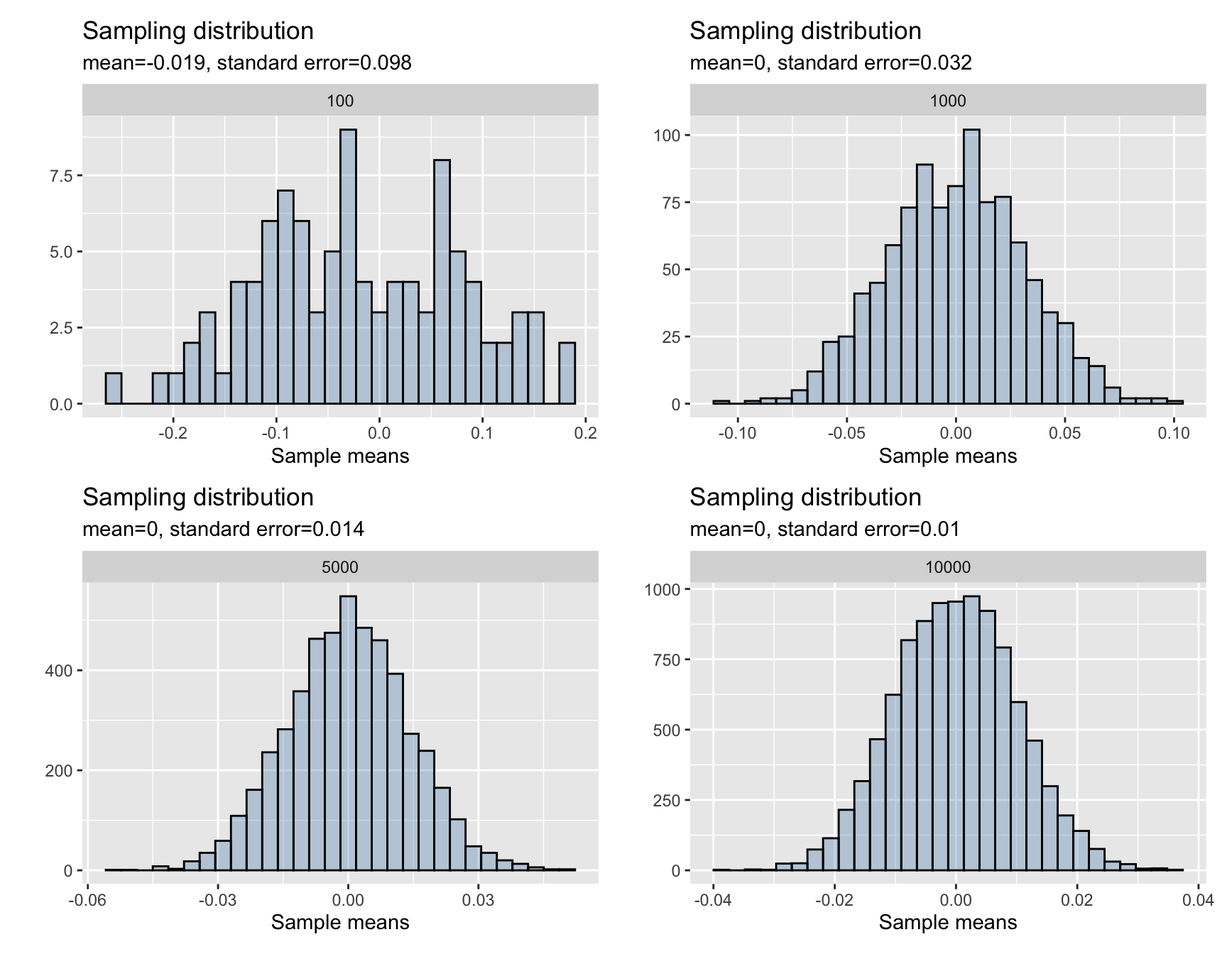
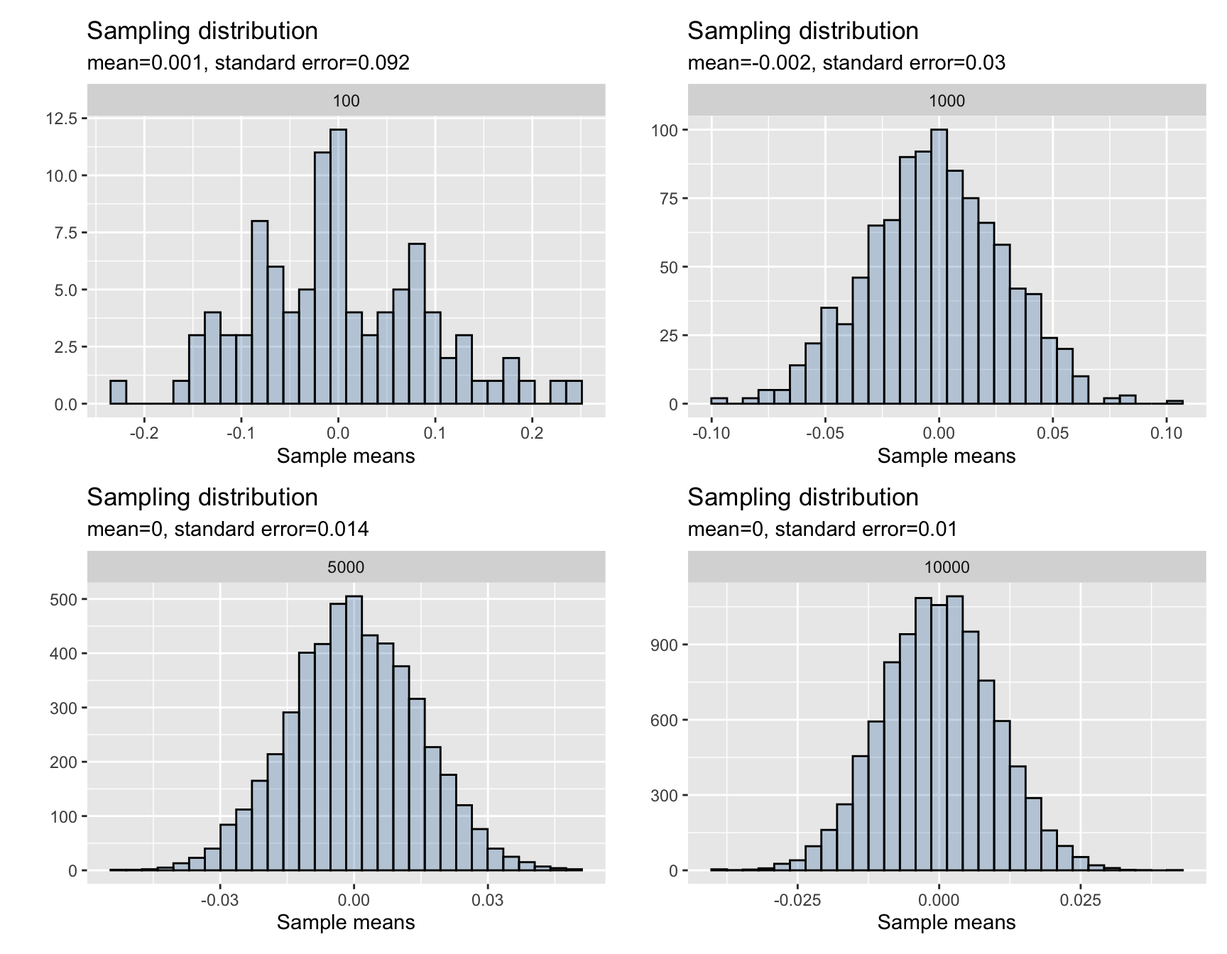
update

diff --git a/_site/ucla/stats10/CLT.html b/_site/ucla/stats10/CLT.html
@@ -235,7 +235,7 @@ Show Code
 <div class="cell">
 <div class="sourceCode cell-code" id="cb4"><pre class="sourceCode r code-with-copy"><code class="sourceCode r"><span id="cb4-1"><a href="#cb4-1" aria-hidden="true" tabindex="-1"></a><span class="fu">mean</span>(sample_means)</span></code><button title="Copy to Clipboard" class="code-copy-button"><i class="bi"></i></button></pre></div>
 <div class="cell-output cell-output-stdout">
-<pre><code>#&gt; [1] -0.0009667696</code></pre>
+<pre><code>#&gt; [1] 0.0003590094</code></pre>
 </div>
 </div>
 <p>which is very close to the population mean of <span class="math inline">\(\mu =0\)</span></p>
@@ -243,7 +243,7 @@ Show Code
 <div class="cell">
 <div class="sourceCode cell-code" id="cb6"><pre class="sourceCode r code-with-copy"><code class="sourceCode r"><span id="cb6-1"><a href="#cb6-1" aria-hidden="true" tabindex="-1"></a><span class="fu">sd</span>(sample_means)</span></code><button title="Copy to Clipboard" class="code-copy-button"><i class="bi"></i></button></pre></div>
 <div class="cell-output cell-output-stdout">
-<pre><code>#&gt; [1] 0.1003581</code></pre>
+<pre><code>#&gt; [1] 0.09949294</code></pre>
 </div>
 </div>
 <p>which is approximately <span class="math inline">\(\frac{\sigma}{\sqrt{n}} = \frac{1}{10}\)</span></p>
@@ -363,10 +363,6 @@ Show Code
 <li>Compute the sample mean of the penguins body mass and store the result in a variable, say <code>body_mass_xbar</code></li>
 <li>Plot each of the <code>body_mass_xbar</code> using a histogram</li>
 </ol>
-<details>
-<summary>
-Show Code
-</summary>
 <div class="cell">
 <div class="sourceCode cell-code" id="cb14"><pre class="sourceCode r code-with-copy"><code class="sourceCode r"><span id="cb14-1"><a href="#cb14-1" aria-hidden="true" tabindex="-1"></a>n_samples <span class="ot">&lt;-</span> <span class="dv">10000</span></span>
 <span id="cb14-2"><a href="#cb14-2" aria-hidden="true" tabindex="-1"></a>sample_size <span class="ot">&lt;-</span> <span class="dv">50</span></span>
@@ -376,41 +372,46 @@ Show Code
 <span id="cb14-6"><a href="#cb14-6" aria-hidden="true" tabindex="-1"></a><span class="cf">for</span>(i <span class="cf">in</span> <span class="dv">1</span><span class="sc">:</span>n_samples){</span>
 <span id="cb14-7"><a href="#cb14-7" aria-hidden="true" tabindex="-1"></a>  sample_i <span class="ot">=</span>  <span class="fu">sample</span>(body_mass_g, <span class="at">size =</span> sample_size) <span class="co"># generate a new sample</span></span>
 <span id="cb14-8"><a href="#cb14-8" aria-hidden="true" tabindex="-1"></a>  body_mass_xbar[i] <span class="ot">=</span> <span class="fu">mean</span>(sample_i) <span class="co"># obtain mean for each sample</span></span>
-<span id="cb14-9"><a href="#cb14-9" aria-hidden="true" tabindex="-1"></a>}</span>
-<span id="cb14-10"><a href="#cb14-10" aria-hidden="true" tabindex="-1"></a></span>
-<span id="cb14-11"><a href="#cb14-11" aria-hidden="true" tabindex="-1"></a>sampling_dist <span class="ot">&lt;-</span> <span class="fu">ggplot</span>(<span class="fu">data.frame</span>(body_mass_xbar),</span>
-<span id="cb14-12"><a href="#cb14-12" aria-hidden="true" tabindex="-1"></a>                        <span class="fu">aes</span>(body_mass_xbar))<span class="sc">+</span></span>
-<span id="cb14-13"><a href="#cb14-13" aria-hidden="true" tabindex="-1"></a>  <span class="fu">geom_histogram</span>(<span class="at">fill =</span> <span class="st">'steelblue'</span>,<span class="at">alpha =</span> <span class="fl">0.3</span>,</span>
-<span id="cb14-14"><a href="#cb14-14" aria-hidden="true" tabindex="-1"></a>                 <span class="at">color =</span> <span class="st">'black'</span>,<span class="at">bins=</span><span class="dv">30</span>)<span class="sc">+</span></span>
-<span id="cb14-15"><a href="#cb14-15" aria-hidden="true" tabindex="-1"></a>  <span class="fu">labs</span>(<span class="at">title =</span> <span class="st">'Sampling distribution of Sample Mean'</span>,</span>
-<span id="cb14-16"><a href="#cb14-16" aria-hidden="true" tabindex="-1"></a>       <span class="at">subtitle =</span> <span class="st">'Penguins body mass (grams)'</span>,</span>
-<span id="cb14-17"><a href="#cb14-17" aria-hidden="true" tabindex="-1"></a>       <span class="at">x =</span> <span class="st">'Sample means'</span>,<span class="at">y =</span> <span class="st">''</span>)</span></code><button title="Copy to Clipboard" class="code-copy-button"><i class="bi"></i></button></pre></div>
+<span id="cb14-9"><a href="#cb14-9" aria-hidden="true" tabindex="-1"></a>}</span></code><button title="Copy to Clipboard" class="code-copy-button"><i class="bi"></i></button></pre></div>
+</div>
+<details>
+<summary>
+Show Code
+</summary>
+<div class="cell">
+<div class="sourceCode cell-code" id="cb15"><pre class="sourceCode r code-with-copy"><code class="sourceCode r"><span id="cb15-1"><a href="#cb15-1" aria-hidden="true" tabindex="-1"></a>sampling_dist <span class="ot">&lt;-</span> <span class="fu">ggplot</span>(<span class="fu">data.frame</span>(body_mass_xbar),</span>
+<span id="cb15-2"><a href="#cb15-2" aria-hidden="true" tabindex="-1"></a>                        <span class="fu">aes</span>(body_mass_xbar))<span class="sc">+</span></span>
+<span id="cb15-3"><a href="#cb15-3" aria-hidden="true" tabindex="-1"></a>  <span class="fu">geom_histogram</span>(<span class="at">fill =</span> <span class="st">'steelblue'</span>,<span class="at">alpha =</span> <span class="fl">0.3</span>,</span>
+<span id="cb15-4"><a href="#cb15-4" aria-hidden="true" tabindex="-1"></a>                 <span class="at">color =</span> <span class="st">'black'</span>,<span class="at">bins=</span><span class="dv">30</span>)<span class="sc">+</span></span>
+<span id="cb15-5"><a href="#cb15-5" aria-hidden="true" tabindex="-1"></a>  <span class="fu">labs</span>(<span class="at">title =</span> <span class="st">'Sampling distribution of Sample Mean'</span>,</span>
+<span id="cb15-6"><a href="#cb15-6" aria-hidden="true" tabindex="-1"></a>       <span class="at">subtitle =</span> <span class="st">'Penguins body mass (grams)'</span>,</span>
+<span id="cb15-7"><a href="#cb15-7" aria-hidden="true" tabindex="-1"></a>       <span class="at">x =</span> <span class="st">'Sample means'</span>,<span class="at">y =</span> <span class="st">''</span>)</span></code><button title="Copy to Clipboard" class="code-copy-button"><i class="bi"></i></button></pre></div>
 </div>
 </details>
 <div class="cell">
 <div class="cell-output-display">
-<p><img src="CLT_files/figure-html/unnamed-chunk-15-1.png" class="img-fluid" width="576"></p>
+<p><img src="CLT_files/figure-html/unnamed-chunk-16-1.png" class="img-fluid" width="576"></p>
 </div>
 </div>
 <p>The mean for the sampling distribution is</p>
 <div class="cell">
-<div class="sourceCode cell-code" id="cb15"><pre class="sourceCode r code-with-copy"><code class="sourceCode r"><span id="cb15-1"><a href="#cb15-1" aria-hidden="true" tabindex="-1"></a><span class="fu">mean</span>(body_mass_xbar)</span></code><button title="Copy to Clipboard" class="code-copy-button"><i class="bi"></i></button></pre></div>
+<div class="sourceCode cell-code" id="cb16"><pre class="sourceCode r code-with-copy"><code class="sourceCode r"><span id="cb16-1"><a href="#cb16-1" aria-hidden="true" tabindex="-1"></a><span class="fu">mean</span>(body_mass_xbar)</span></code><button title="Copy to Clipboard" class="code-copy-button"><i class="bi"></i></button></pre></div>
 <div class="cell-output cell-output-stdout">
-<pre><code>#&gt; [1] 4201.581</code></pre>
+<pre><code>#&gt; [1] 4202.828</code></pre>
 </div>
 </div>
 <p>which is approximately the population mean for the penguins body mass <em>(without missing observations)</em></p>
 <div class="cell">
-<div class="sourceCode cell-code" id="cb17"><pre class="sourceCode r code-with-copy"><code class="sourceCode r"><span id="cb17-1"><a href="#cb17-1" aria-hidden="true" tabindex="-1"></a><span class="fu">mean</span>(body_mass_g)</span></code><button title="Copy to Clipboard" class="code-copy-button"><i class="bi"></i></button></pre></div>
+<div class="sourceCode cell-code" id="cb18"><pre class="sourceCode r code-with-copy"><code class="sourceCode r"><span id="cb18-1"><a href="#cb18-1" aria-hidden="true" tabindex="-1"></a><span class="fu">mean</span>(body_mass_g)</span></code><button title="Copy to Clipboard" class="code-copy-button"><i class="bi"></i></button></pre></div>
 <div class="cell-output cell-output-stdout">
 <pre><code>#&gt; [1] 4201.754</code></pre>
 </div>
 </div>
 <p>the standard error for the sampling distribution is</p>
 <div class="cell">
-<div class="sourceCode cell-code" id="cb19"><pre class="sourceCode r code-with-copy"><code class="sourceCode r"><span id="cb19-1"><a href="#cb19-1" aria-hidden="true" tabindex="-1"></a><span class="fu">sd</span>(body_mass_xbar)</span></code><button title="Copy to Clipboard" class="code-copy-button"><i class="bi"></i></button></pre></div>
+<div class="sourceCode cell-code" id="cb20"><pre class="sourceCode r code-with-copy"><code class="sourceCode r"><span id="cb20-1"><a href="#cb20-1" aria-hidden="true" tabindex="-1"></a><span class="fu">sd</span>(body_mass_xbar)</span></code><button title="Copy to Clipboard" class="code-copy-button"><i class="bi"></i></button></pre></div>
 <div class="cell-output cell-output-stdout">
-<pre><code>#&gt; [1] 104.14</code></pre>
+<pre><code>#&gt; [1] 104.9982</code></pre>
 </div>
 </div>
 </section>
@@ -426,49 +427,49 @@ Show Code
 </ol>
 <p>Here the sample proportion is the fraction of samples which were success. We will take a large number of random samples from the population, where the population is generated from a binomial distribution with 10 trials and probability of success <span class="math inline">\(p=0.25\)</span> for each trial.</p>
 <div class="cell">
-<div class="sourceCode cell-code" id="cb21"><pre class="sourceCode r code-with-copy"><code class="sourceCode r"><span id="cb21-1"><a href="#cb21-1" aria-hidden="true" tabindex="-1"></a>n_samples <span class="ot">&lt;-</span> <span class="dv">10000</span></span>
-<span id="cb21-2"><a href="#cb21-2" aria-hidden="true" tabindex="-1"></a>sample_size <span class="ot">&lt;-</span> <span class="dv">100</span> <span class="co"># each sample will be of size 100</span></span>
-<span id="cb21-3"><a href="#cb21-3" aria-hidden="true" tabindex="-1"></a>n_trials <span class="ot">&lt;-</span> <span class="dv">10</span></span>
-<span id="cb21-4"><a href="#cb21-4" aria-hidden="true" tabindex="-1"></a>sample_proportions <span class="ot">&lt;-</span> <span class="fu">numeric</span>(n_samples)</span>
-<span id="cb21-5"><a href="#cb21-5" aria-hidden="true" tabindex="-1"></a></span>
-<span id="cb21-6"><a href="#cb21-6" aria-hidden="true" tabindex="-1"></a><span class="cf">for</span>(i <span class="cf">in</span> <span class="dv">1</span><span class="sc">:</span>n_samples){</span>
-<span id="cb21-7"><a href="#cb21-7" aria-hidden="true" tabindex="-1"></a>  sample_i <span class="ot">=</span>  <span class="fu">rbinom</span>(<span class="at">n =</span> sample_size, <span class="at">size=</span> n_trials, </span>
-<span id="cb21-8"><a href="#cb21-8" aria-hidden="true" tabindex="-1"></a>                     <span class="at">prob =</span> <span class="fl">0.25</span>) <span class="co"># generate a new sample</span></span>
-<span id="cb21-9"><a href="#cb21-9" aria-hidden="true" tabindex="-1"></a>  sample_proportions[i] <span class="ot">=</span> <span class="fu">mean</span>(sample_i)<span class="sc">/</span>n_trials <span class="co"># obtain proportion for each sample</span></span>
-<span id="cb21-10"><a href="#cb21-10" aria-hidden="true" tabindex="-1"></a>}</span></code><button title="Copy to Clipboard" class="code-copy-button"><i class="bi"></i></button></pre></div>
+<div class="sourceCode cell-code" id="cb22"><pre class="sourceCode r code-with-copy"><code class="sourceCode r"><span id="cb22-1"><a href="#cb22-1" aria-hidden="true" tabindex="-1"></a>n_samples <span class="ot">&lt;-</span> <span class="dv">10000</span></span>
+<span id="cb22-2"><a href="#cb22-2" aria-hidden="true" tabindex="-1"></a>sample_size <span class="ot">&lt;-</span> <span class="dv">100</span> <span class="co"># each sample will be of size 100</span></span>
+<span id="cb22-3"><a href="#cb22-3" aria-hidden="true" tabindex="-1"></a>n_trials <span class="ot">&lt;-</span> <span class="dv">10</span></span>
+<span id="cb22-4"><a href="#cb22-4" aria-hidden="true" tabindex="-1"></a>sample_proportions <span class="ot">&lt;-</span> <span class="fu">numeric</span>(n_samples)</span>
+<span id="cb22-5"><a href="#cb22-5" aria-hidden="true" tabindex="-1"></a></span>
+<span id="cb22-6"><a href="#cb22-6" aria-hidden="true" tabindex="-1"></a><span class="cf">for</span>(i <span class="cf">in</span> <span class="dv">1</span><span class="sc">:</span>n_samples){</span>
+<span id="cb22-7"><a href="#cb22-7" aria-hidden="true" tabindex="-1"></a>  sample_i <span class="ot">=</span>  <span class="fu">rbinom</span>(<span class="at">n =</span> sample_size, <span class="at">size=</span> n_trials, </span>
+<span id="cb22-8"><a href="#cb22-8" aria-hidden="true" tabindex="-1"></a>                     <span class="at">prob =</span> <span class="fl">0.25</span>) <span class="co"># generate a new sample</span></span>
+<span id="cb22-9"><a href="#cb22-9" aria-hidden="true" tabindex="-1"></a>  sample_proportions[i] <span class="ot">=</span> <span class="fu">mean</span>(sample_i)<span class="sc">/</span>n_trials <span class="co"># obtain proportion for each sample</span></span>
+<span id="cb22-10"><a href="#cb22-10" aria-hidden="true" tabindex="-1"></a>}</span></code><button title="Copy to Clipboard" class="code-copy-button"><i class="bi"></i></button></pre></div>
 </div>
 <details>
 <summary>
 Show Code
 </summary>
 <div class="cell">
-<div class="sourceCode cell-code" id="cb22"><pre class="sourceCode r code-with-copy"><code class="sourceCode r"><span id="cb22-1"><a href="#cb22-1" aria-hidden="true" tabindex="-1"></a>sampling_dist_prop <span class="ot">&lt;-</span> <span class="fu">ggplot</span>(<span class="fu">data.frame</span>(sample_proportions),</span>
-<span id="cb22-2"><a href="#cb22-2" aria-hidden="true" tabindex="-1"></a>                             <span class="fu">aes</span>(sample_proportions))<span class="sc">+</span></span>
-<span id="cb22-3"><a href="#cb22-3" aria-hidden="true" tabindex="-1"></a>  <span class="fu">geom_histogram</span>(<span class="at">fill =</span> <span class="st">'steelblue'</span>,<span class="at">alpha =</span> <span class="fl">0.3</span>,</span>
-<span id="cb22-4"><a href="#cb22-4" aria-hidden="true" tabindex="-1"></a>                 <span class="at">color =</span> <span class="st">'black'</span>,<span class="at">bins=</span><span class="dv">30</span>)<span class="sc">+</span></span>
-<span id="cb22-5"><a href="#cb22-5" aria-hidden="true" tabindex="-1"></a>  <span class="fu">labs</span>(<span class="at">title =</span> <span class="st">'Sampling distribution'</span>,</span>
-<span id="cb22-6"><a href="#cb22-6" aria-hidden="true" tabindex="-1"></a>       <span class="at">x =</span> <span class="st">'Sample proportions'</span>,<span class="at">y =</span> <span class="st">''</span>)</span></code><button title="Copy to Clipboard" class="code-copy-button"><i class="bi"></i></button></pre></div>
+<div class="sourceCode cell-code" id="cb23"><pre class="sourceCode r code-with-copy"><code class="sourceCode r"><span id="cb23-1"><a href="#cb23-1" aria-hidden="true" tabindex="-1"></a>sampling_dist_prop <span class="ot">&lt;-</span> <span class="fu">ggplot</span>(<span class="fu">data.frame</span>(sample_proportions),</span>
+<span id="cb23-2"><a href="#cb23-2" aria-hidden="true" tabindex="-1"></a>                             <span class="fu">aes</span>(sample_proportions))<span class="sc">+</span></span>
+<span id="cb23-3"><a href="#cb23-3" aria-hidden="true" tabindex="-1"></a>  <span class="fu">geom_histogram</span>(<span class="at">fill =</span> <span class="st">'steelblue'</span>,<span class="at">alpha =</span> <span class="fl">0.3</span>,</span>
+<span id="cb23-4"><a href="#cb23-4" aria-hidden="true" tabindex="-1"></a>                 <span class="at">color =</span> <span class="st">'black'</span>,<span class="at">bins=</span><span class="dv">30</span>)<span class="sc">+</span></span>
+<span id="cb23-5"><a href="#cb23-5" aria-hidden="true" tabindex="-1"></a>  <span class="fu">labs</span>(<span class="at">title =</span> <span class="st">'Sampling distribution'</span>,</span>
+<span id="cb23-6"><a href="#cb23-6" aria-hidden="true" tabindex="-1"></a>       <span class="at">x =</span> <span class="st">'Sample proportions'</span>,<span class="at">y =</span> <span class="st">''</span>)</span></code><button title="Copy to Clipboard" class="code-copy-button"><i class="bi"></i></button></pre></div>
 </div>
 </details>
 <div class="cell">
 <div class="cell-output-display">
-<p><img src="CLT_files/figure-html/unnamed-chunk-21-1.png" class="img-fluid" width="576"></p>
+<p><img src="CLT_files/figure-html/unnamed-chunk-22-1.png" class="img-fluid" width="576"></p>
 </div>
 </div>
 <p>The plot above is the distribution of sample proportions after taking 10,000 samples with size <span class="math inline">\(n=100\)</span> from the population. The overall distribution appears to be normally distributed <em>(bell shaped curve)</em>.</p>
 <p>Through the <em>CLT</em>, the sampling distribution for the sample proportions will be distributed with mean <span class="math inline">\(p\)</span> and standard error <span class="math inline">\(\sqrt{\frac{p(1-p)}{n}}\)</span>, <span class="math inline">\(\hat{p} \sim N(p,\sqrt{\frac{p(1-p)}{n}} )\)</span></p>
 <div class="cell">
-<div class="sourceCode cell-code" id="cb23"><pre class="sourceCode r code-with-copy"><code class="sourceCode r"><span id="cb23-1"><a href="#cb23-1" aria-hidden="true" tabindex="-1"></a><span class="fu">mean</span>(sample_proportions)</span></code><button title="Copy to Clipboard" class="code-copy-button"><i class="bi"></i></button></pre></div>
+<div class="sourceCode cell-code" id="cb24"><pre class="sourceCode r code-with-copy"><code class="sourceCode r"><span id="cb24-1"><a href="#cb24-1" aria-hidden="true" tabindex="-1"></a><span class="fu">mean</span>(sample_proportions)</span></code><button title="Copy to Clipboard" class="code-copy-button"><i class="bi"></i></button></pre></div>
 <div class="cell-output cell-output-stdout">
-<pre><code>#&gt; [1] 0.2499279</code></pre>
+<pre><code>#&gt; [1] 0.2500766</code></pre>
 </div>
 </div>
 <p>which is approximately the population parameter <span class="math inline">\(p=0.25\)</span>.</p>
 <p>The standard error is</p>
 <div class="cell">
-<div class="sourceCode cell-code" id="cb25"><pre class="sourceCode r code-with-copy"><code class="sourceCode r"><span id="cb25-1"><a href="#cb25-1" aria-hidden="true" tabindex="-1"></a><span class="fu">sd</span>(sample_proportions)</span></code><button title="Copy to Clipboard" class="code-copy-button"><i class="bi"></i></button></pre></div>
+<div class="sourceCode cell-code" id="cb26"><pre class="sourceCode r code-with-copy"><code class="sourceCode r"><span id="cb26-1"><a href="#cb26-1" aria-hidden="true" tabindex="-1"></a><span class="fu">sd</span>(sample_proportions)</span></code><button title="Copy to Clipboard" class="code-copy-button"><i class="bi"></i></button></pre></div>
 <div class="cell-output cell-output-stdout">
-<pre><code>#&gt; [1] 0.0137717</code></pre>
+<pre><code>#&gt; [1] 0.01348007</code></pre>
 </div>
 </div>
 </section>
@@ -477,7 +478,7 @@ Show Code
 <p>Using the penguins dataset we will generate a sampling distribution for the sample proportion of the Adelie penguins</p>
 <p>For simplicity, we will remove any missing observations</p>
 <div class="cell">
-<div class="sourceCode cell-code" id="cb27"><pre class="sourceCode r code-with-copy"><code class="sourceCode r"><span id="cb27-1"><a href="#cb27-1" aria-hidden="true" tabindex="-1"></a>species <span class="ot">&lt;-</span> penguins<span class="sc">$</span>species[<span class="sc">!</span><span class="fu">is.na</span>(penguins<span class="sc">$</span>species)]</span></code><button title="Copy to Clipboard" class="code-copy-button"><i class="bi"></i></button></pre></div>
+<div class="sourceCode cell-code" id="cb28"><pre class="sourceCode r code-with-copy"><code class="sourceCode r"><span id="cb28-1"><a href="#cb28-1" aria-hidden="true" tabindex="-1"></a>species <span class="ot">&lt;-</span> penguins<span class="sc">$</span>species[<span class="sc">!</span><span class="fu">is.na</span>(penguins<span class="sc">$</span>species)]</span></code><button title="Copy to Clipboard" class="code-copy-button"><i class="bi"></i></button></pre></div>
 </div>
 <p>Recall, to obtain the sampling distribution for the sample proportion</p>
 <p>For the total number of samples do the following:</p>
@@ -487,45 +488,45 @@ Show Code
 <li>Plot each of the <code>adelie_proportions</code> using a histogram</li>
 </ol>
 <div class="cell">
-<div class="sourceCode cell-code" id="cb28"><pre class="sourceCode r code-with-copy"><code class="sourceCode r"><span id="cb28-1"><a href="#cb28-1" aria-hidden="true" tabindex="-1"></a>n_samples <span class="ot">&lt;-</span> <span class="dv">10000</span></span>
-<span id="cb28-2"><a href="#cb28-2" aria-hidden="true" tabindex="-1"></a>sample_size <span class="ot">&lt;-</span> <span class="dv">50</span></span>
-<span id="cb28-3"><a href="#cb28-3" aria-hidden="true" tabindex="-1"></a></span>
-<span id="cb28-4"><a href="#cb28-4" aria-hidden="true" tabindex="-1"></a>adelie_proportions <span class="ot">&lt;-</span> <span class="fu">numeric</span>(n_samples)</span>
-<span id="cb28-5"><a href="#cb28-5" aria-hidden="true" tabindex="-1"></a></span>
-<span id="cb28-6"><a href="#cb28-6" aria-hidden="true" tabindex="-1"></a><span class="cf">for</span>(i <span class="cf">in</span> <span class="dv">1</span><span class="sc">:</span>n_samples){</span>
-<span id="cb28-7"><a href="#cb28-7" aria-hidden="true" tabindex="-1"></a>  sample_i <span class="ot">=</span>  <span class="fu">sample</span>(species, <span class="at">size =</span> sample_size) <span class="co"># generate a new sample from the population</span></span>
-<span id="cb28-8"><a href="#cb28-8" aria-hidden="true" tabindex="-1"></a>  adelie_proportions[i] <span class="ot">=</span> <span class="fu">mean</span>(sample_i <span class="sc">==</span> <span class="st">'Adelie'</span>) <span class="co"># obtain proportion for each sample</span></span>
-<span id="cb28-9"><a href="#cb28-9" aria-hidden="true" tabindex="-1"></a>}</span></code><button title="Copy to Clipboard" class="code-copy-button"><i class="bi"></i></button></pre></div>
+<div class="sourceCode cell-code" id="cb29"><pre class="sourceCode r code-with-copy"><code class="sourceCode r"><span id="cb29-1"><a href="#cb29-1" aria-hidden="true" tabindex="-1"></a>n_samples <span class="ot">&lt;-</span> <span class="dv">10000</span></span>
+<span id="cb29-2"><a href="#cb29-2" aria-hidden="true" tabindex="-1"></a>sample_size <span class="ot">&lt;-</span> <span class="dv">50</span></span>
+<span id="cb29-3"><a href="#cb29-3" aria-hidden="true" tabindex="-1"></a></span>
+<span id="cb29-4"><a href="#cb29-4" aria-hidden="true" tabindex="-1"></a>adelie_proportions <span class="ot">&lt;-</span> <span class="fu">numeric</span>(n_samples)</span>
+<span id="cb29-5"><a href="#cb29-5" aria-hidden="true" tabindex="-1"></a></span>
+<span id="cb29-6"><a href="#cb29-6" aria-hidden="true" tabindex="-1"></a><span class="cf">for</span>(i <span class="cf">in</span> <span class="dv">1</span><span class="sc">:</span>n_samples){</span>
+<span id="cb29-7"><a href="#cb29-7" aria-hidden="true" tabindex="-1"></a>  sample_i <span class="ot">=</span>  <span class="fu">sample</span>(species, <span class="at">size =</span> sample_size) <span class="co"># generate a new sample from the population</span></span>
+<span id="cb29-8"><a href="#cb29-8" aria-hidden="true" tabindex="-1"></a>  adelie_proportions[i] <span class="ot">=</span> <span class="fu">mean</span>(sample_i <span class="sc">==</span> <span class="st">'Adelie'</span>) <span class="co"># obtain proportion for each sample</span></span>
+<span id="cb29-9"><a href="#cb29-9" aria-hidden="true" tabindex="-1"></a>}</span></code><button title="Copy to Clipboard" class="code-copy-button"><i class="bi"></i></button></pre></div>
 </div>
 <details>
 <summary>
 Show Code
 </summary>
 <div class="cell">
-<div class="sourceCode cell-code" id="cb29"><pre class="sourceCode r code-with-copy"><code class="sourceCode r"><span id="cb29-1"><a href="#cb29-1" aria-hidden="true" tabindex="-1"></a>sampling_dist <span class="ot">&lt;-</span> <span class="fu">ggplot</span>(<span class="fu">data.frame</span>(adelie_proportions),</span>
-<span id="cb29-2"><a href="#cb29-2" aria-hidden="true" tabindex="-1"></a>                        <span class="fu">aes</span>(adelie_proportions))<span class="sc">+</span></span>
-<span id="cb29-3"><a href="#cb29-3" aria-hidden="true" tabindex="-1"></a>  <span class="fu">geom_bar</span>(<span class="at">fill =</span> <span class="st">'steelblue'</span>,<span class="at">alpha =</span> <span class="fl">0.3</span>,</span>
-<span id="cb29-4"><a href="#cb29-4" aria-hidden="true" tabindex="-1"></a>                 <span class="at">color =</span> <span class="st">'black'</span>)<span class="sc">+</span></span>
-<span id="cb29-5"><a href="#cb29-5" aria-hidden="true" tabindex="-1"></a>  <span class="fu">labs</span>(<span class="at">title =</span> <span class="st">'Sampling distribution of Sample Proportion'</span>,</span>
-<span id="cb29-6"><a href="#cb29-6" aria-hidden="true" tabindex="-1"></a>       <span class="at">subtitle =</span> <span class="st">"Adelie penguins"</span>,</span>
-<span id="cb29-7"><a href="#cb29-7" aria-hidden="true" tabindex="-1"></a>       <span class="at">x =</span> <span class="st">'Sample proportions'</span>,<span class="at">y =</span> <span class="st">''</span>)</span></code><button title="Copy to Clipboard" class="code-copy-button"><i class="bi"></i></button></pre></div>
+<div class="sourceCode cell-code" id="cb30"><pre class="sourceCode r code-with-copy"><code class="sourceCode r"><span id="cb30-1"><a href="#cb30-1" aria-hidden="true" tabindex="-1"></a>sampling_dist <span class="ot">&lt;-</span> <span class="fu">ggplot</span>(<span class="fu">data.frame</span>(adelie_proportions),</span>
+<span id="cb30-2"><a href="#cb30-2" aria-hidden="true" tabindex="-1"></a>                        <span class="fu">aes</span>(adelie_proportions))<span class="sc">+</span></span>
+<span id="cb30-3"><a href="#cb30-3" aria-hidden="true" tabindex="-1"></a>  <span class="fu">geom_bar</span>(<span class="at">fill =</span> <span class="st">'steelblue'</span>,<span class="at">alpha =</span> <span class="fl">0.3</span>,</span>
+<span id="cb30-4"><a href="#cb30-4" aria-hidden="true" tabindex="-1"></a>                 <span class="at">color =</span> <span class="st">'black'</span>)<span class="sc">+</span></span>
+<span id="cb30-5"><a href="#cb30-5" aria-hidden="true" tabindex="-1"></a>  <span class="fu">labs</span>(<span class="at">title =</span> <span class="st">'Sampling distribution of Sample Proportion'</span>,</span>
+<span id="cb30-6"><a href="#cb30-6" aria-hidden="true" tabindex="-1"></a>       <span class="at">subtitle =</span> <span class="st">"Adelie penguins"</span>,</span>
+<span id="cb30-7"><a href="#cb30-7" aria-hidden="true" tabindex="-1"></a>       <span class="at">x =</span> <span class="st">'Sample proportions'</span>,<span class="at">y =</span> <span class="st">''</span>)</span></code><button title="Copy to Clipboard" class="code-copy-button"><i class="bi"></i></button></pre></div>
 </div>
 </details>
 <div class="cell">
 <div class="cell-output-display">
-<p><img src="CLT_files/figure-html/unnamed-chunk-27-1.png" class="img-fluid" width="576"></p>
+<p><img src="CLT_files/figure-html/unnamed-chunk-28-1.png" class="img-fluid" width="576"></p>
 </div>
 </div>
 <p>The mean for the sampling distribution is</p>
 <div class="cell">
-<div class="sourceCode cell-code" id="cb30"><pre class="sourceCode r code-with-copy"><code class="sourceCode r"><span id="cb30-1"><a href="#cb30-1" aria-hidden="true" tabindex="-1"></a><span class="fu">mean</span>(adelie_proportions)</span></code><button title="Copy to Clipboard" class="code-copy-button"><i class="bi"></i></button></pre></div>
+<div class="sourceCode cell-code" id="cb31"><pre class="sourceCode r code-with-copy"><code class="sourceCode r"><span id="cb31-1"><a href="#cb31-1" aria-hidden="true" tabindex="-1"></a><span class="fu">mean</span>(adelie_proportions)</span></code><button title="Copy to Clipboard" class="code-copy-button"><i class="bi"></i></button></pre></div>
 <div class="cell-output cell-output-stdout">
-<pre><code>#&gt; [1] 0.441226</code></pre>
+<pre><code>#&gt; [1] 0.442516</code></pre>
 </div>
 </div>
 <p>which is approximately the population proportion for the Adelie penguins <em>(without missing observations)</em></p>
 <div class="cell">
-<div class="sourceCode cell-code" id="cb32"><pre class="sourceCode r code-with-copy"><code class="sourceCode r"><span id="cb32-1"><a href="#cb32-1" aria-hidden="true" tabindex="-1"></a><span class="fu">prop.table</span>(<span class="fu">table</span>(species))[<span class="st">'Adelie'</span>]</span></code><button title="Copy to Clipboard" class="code-copy-button"><i class="bi"></i></button></pre></div>
+<div class="sourceCode cell-code" id="cb33"><pre class="sourceCode r code-with-copy"><code class="sourceCode r"><span id="cb33-1"><a href="#cb33-1" aria-hidden="true" tabindex="-1"></a><span class="fu">prop.table</span>(<span class="fu">table</span>(species))[<span class="st">'Adelie'</span>]</span></code><button title="Copy to Clipboard" class="code-copy-button"><i class="bi"></i></button></pre></div>
 <div class="cell-output cell-output-stdout">
 <pre><code>#&gt;    Adelie 
 #&gt; 0.4418605</code></pre>
@@ -533,15 +534,15 @@ Show Code
 </div>
 <p>the standard error for the sampling distribution is</p>
 <div class="cell">
-<div class="sourceCode cell-code" id="cb34"><pre class="sourceCode r code-with-copy"><code class="sourceCode r"><span id="cb34-1"><a href="#cb34-1" aria-hidden="true" tabindex="-1"></a><span class="fu">sd</span>(adelie_proportions)</span></code><button title="Copy to Clipboard" class="code-copy-button"><i class="bi"></i></button></pre></div>
+<div class="sourceCode cell-code" id="cb35"><pre class="sourceCode r code-with-copy"><code class="sourceCode r"><span id="cb35-1"><a href="#cb35-1" aria-hidden="true" tabindex="-1"></a><span class="fu">sd</span>(adelie_proportions)</span></code><button title="Copy to Clipboard" class="code-copy-button"><i class="bi"></i></button></pre></div>
 <div class="cell-output cell-output-stdout">
-<pre><code>#&gt; [1] 0.06518652</code></pre>
+<pre><code>#&gt; [1] 0.06495238</code></pre>
 </div>
 </div>
 <p>which should approximately be <span class="math inline">\(\sqrt{\frac{p(1-p)}{n}}\)</span></p>
 <div class="cell">
-<div class="sourceCode cell-code" id="cb36"><pre class="sourceCode r code-with-copy"><code class="sourceCode r"><span id="cb36-1"><a href="#cb36-1" aria-hidden="true" tabindex="-1"></a>p <span class="ot">&lt;-</span> <span class="fu">prop.table</span>(<span class="fu">table</span>(species))[<span class="st">'Adelie'</span>]</span>
-<span id="cb36-2"><a href="#cb36-2" aria-hidden="true" tabindex="-1"></a><span class="fu">sqrt</span>((p<span class="sc">*</span>(<span class="dv">1</span><span class="sc">-</span>p))<span class="sc">/</span>sample_size)</span></code><button title="Copy to Clipboard" class="code-copy-button"><i class="bi"></i></button></pre></div>
+<div class="sourceCode cell-code" id="cb37"><pre class="sourceCode r code-with-copy"><code class="sourceCode r"><span id="cb37-1"><a href="#cb37-1" aria-hidden="true" tabindex="-1"></a>p <span class="ot">&lt;-</span> <span class="fu">prop.table</span>(<span class="fu">table</span>(species))[<span class="st">'Adelie'</span>]</span>
+<span id="cb37-2"><a href="#cb37-2" aria-hidden="true" tabindex="-1"></a><span class="fu">sqrt</span>((p<span class="sc">*</span>(<span class="dv">1</span><span class="sc">-</span>p))<span class="sc">/</span>sample_size)</span></code><button title="Copy to Clipboard" class="code-copy-button"><i class="bi"></i></button></pre></div>
 <div class="cell-output cell-output-stdout">
 <pre><code>#&gt;     Adelie 
 #&gt; 0.07023102</code></pre>

diff --git a/_site/zoom.html b/_site/zoom.html
@@ -223,7 +223,7 @@ ul.task-list li input[type="checkbox"] {
 <td>Wed, March 1</td>
 <td><p>Lab 4:</p>
 <p><em>CLT Sample Proportions</em></p></td>
-<td></td>
+<td><a href="https://ucla.zoom.us/rec/share/QLcUghrz325HWAxvvcxGjydWIXC4Ozf98582km6paw4BcKR2v9IwpCQt6zeL1aSg.Fl1AMX48gQs87lU_">Lecture 13</a></td>
 </tr>
 <tr class="odd">
 <td>Week 9</td>
